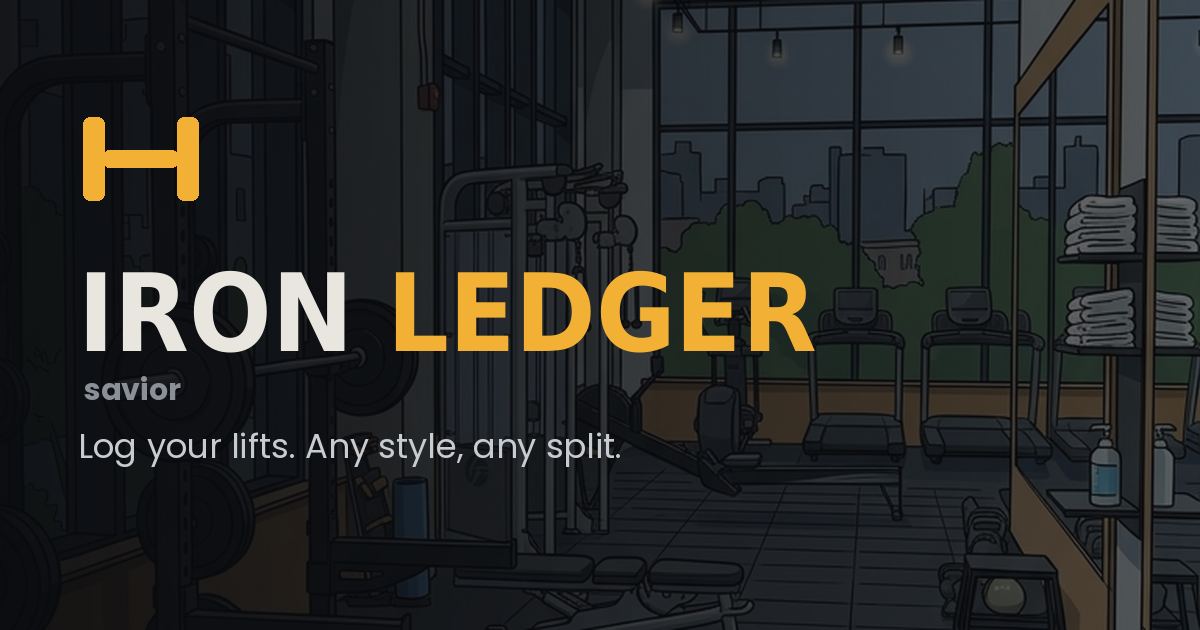
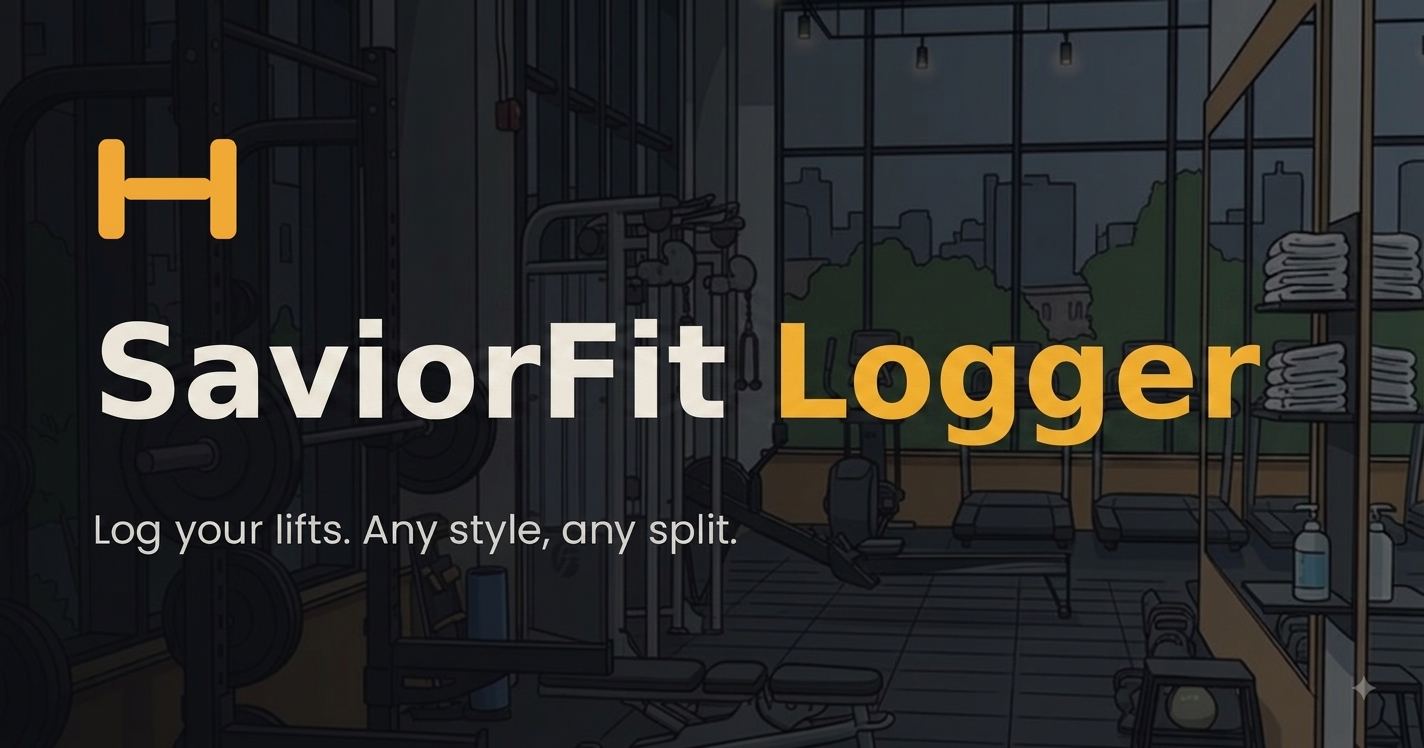
Add files via upload

diff --git a/index.html b/index.html
@@ -4,7 +4,7 @@
 <meta charset="UTF-8">
 <meta name="viewport" content="width=device-width, initial-scale=1.0, viewport-fit=cover">
 <meta name="theme-color" content="#14161a">
-<title>Iron Ledger — Workout Log</title>
+<title>SaviorFit Logger — Workout Log</title>
 <meta name="description" content="Log your lifts, any style, any split. A free workout tracker by Savior.">
 <!--
   UPDATE THE URLS BELOW once this is live on GitHub Pages / Netlify.
@@ -12,26 +12,26 @@
   link previews (WhatsApp, iMessage, Twitter, etc.) fetch og:image
   from the internet, so it only works once it's actually hosted there.
   Upload og-image.png to the same folder as this file, then point
-  og:image at it, e.g. https://yourusername.github.io/iron-ledger/og-image.png
+  og:image at it, e.g. https://yourusername.github.io/saviorfit-logger/og-image.png
 -->
 <meta property="og:type" content="website">
-<meta property="og:url" content="https://xavierchua10-dotcom.github.io/IronLedger/">
-<meta property="og:title" content="Iron Ledger — Workout Log">
+<meta property="og:url" content="https://xavierchua10-dotcom.github.io/SaviorFitLogger/">
+<meta property="og:title" content="SaviorFit Logger — Workout Log">
 <meta property="og:description" content="Log your lifts, any style, any split. A free workout tracker by Savior.">
-<meta property="og:image" content="https://xavierchua10-dotcom.github.io/IronLedger/og-image.png">
+<meta property="og:image" content="https://xavierchua10-dotcom.github.io/SaviorFitLogger/og-image.png">
 <meta property="og:image:width" content="1200">
 <meta property="og:image:height" content="630">
 <meta name="twitter:card" content="summary_large_image">
-<meta name="twitter:title" content="Iron Ledger — Workout Log">
+<meta name="twitter:title" content="SaviorFit Logger — Workout Log">
 <meta name="twitter:description" content="Log your lifts, any style, any split. A free workout tracker by Savior.">
-<meta name="twitter:image" content="https://xavierchua10-dotcom.github.io/IronLedger/og-image.png">
+<meta name="twitter:image" content="https://xavierchua10-dotcom.github.io/SaviorFitLogger/og-image.png">
 <link rel="icon" href="favicon.ico">
 <link rel="apple-touch-icon" href="apple-touch-icon.png">
 <link rel="manifest" href="manifest.json">
 <meta name="mobile-web-app-capable" content="yes">
 <meta name="apple-mobile-web-app-capable" content="yes">
 <meta name="apple-mobile-web-app-status-bar-style" content="black-translucent">
-<meta name="apple-mobile-web-app-title" content="Iron Ledger">
+<meta name="apple-mobile-web-app-title" content="SaviorFit Logger">
 <link rel="preconnect" href="https://fonts.googleapis.com">
 <link rel="preconnect" href="https://fonts.gstatic.com" crossorigin>
 <link href="https://fonts.googleapis.com/css2?family=Oswald:wght@500;600;700&family=Inter:wght@400;500;600;700&family=JetBrains+Mono:wght@400;500;700&display=swap" rel="stylesheet">
@@ -1932,10 +1932,10 @@
 </style>
 </head>
 <body>
-<div id="bootLoading" class="boot-loading"><div class="boot-loading-mark">IRON <span>LEDGER</span></div></div>
+<div id="bootLoading" class="boot-loading"><div class="boot-loading-mark">SAVIORFIT <span>LOGGER</span></div></div>
 <div id="app" class="hidden">
   <header class="topbar">
-    <h1>IRON <span>LEDGER</span> <span class="brand-tag">savior</span></h1>
+    <h1>SAVIORFIT <span>LOGGER</span></h1>
     <div class="topbar-right">
       <div class="account-wrap">
         <button class="pro-star-btn" id="proStarBtn" data-action="open-pricing" aria-label="Upgrade to Pro"><span class="pro-star-glyph">&#9733;</span></button>
@@ -2763,8 +2763,8 @@
     var s = state.sessions.find(function(x){ return x.id === sessionId; });
     if (!s) return;
     document.getElementById('printReceipt').classList.remove('pro');
-    var html = '<div class="pr-brand">IRON <span class="pr-brand-accent">LEDGER</span></div>';
-    html += '<div class="pr-tagline">savior &middot; workout receipt</div>';
+    var html = '<div class="pr-brand">SAVIORFIT <span class="pr-brand-accent">LOGGER</span></div>';
+    html += '<div class="pr-tagline">workout receipt</div>';
     html += '<div class="pr-line"></div>';
     html += '<div class="pr-session-name">'+esc(s.name || 'Untitled session')+'</div>';
     html += '<div class="pr-row"><span>'+fmtDate(s.finishedAt || s.date)+'</span><span>'+tsOrLock(s.finishedAt || s.date)+'</span></div>';
@@ -2781,7 +2781,7 @@
     html += '<div class="pr-row"><span>Sets</span><span>'+sessionSetCount(s)+'</span></div>';
     html += '<div class="pr-row"><span>Total volume</span><span>'+Math.round(toDisplay(sessionVolume(s))).toLocaleString()+' '+unitLabel()+'</span></div>';
     html += '<div class="pr-line"></div>';
-    html += '<div class="pr-footer">Thanks for the work.<br>Logged with Iron Ledger &mdash; Savior</div>';
+    html += '<div class="pr-footer">Thanks for the work.<br>Logged with SaviorFit Logger</div>';
     document.getElementById('printReceipt').innerHTML = html;
     window.print();
   }
@@ -3192,7 +3192,7 @@
 
     if (isDevOverride()){
       panel.innerHTML =
-        '<div class="pro-panel-header"><h3><span class="pro-panel-badge">PRO</span> Iron Ledger Pro</h3>' +
+        '<div class="pro-panel-header"><h3><span class="pro-panel-badge">PRO</span> SaviorFit Logger Pro</h3>' +
           '<button class="pro-panel-close" data-action="close-pricing" aria-label="Close">&#10005;</button>' +
         '</div>' +
         '<div class="paywall-body">' +
@@ -3205,7 +3205,7 @@
 
     if (isProActive()){
       panel.innerHTML =
-        '<div class="pro-panel-header"><h3><span class="pro-panel-badge">PRO</span> Iron Ledger Pro</h3>' +
+        '<div class="pro-panel-header"><h3><span class="pro-panel-badge">PRO</span> SaviorFit Logger Pro</h3>' +
           '<button class="pro-panel-close" data-action="close-pricing" aria-label="Close">&#10005;</button>' +
         '</div>' +
         '<div class="paywall-body">' +
@@ -3305,7 +3305,7 @@
     overlay.classList.remove('hidden');
     if (!isProActive()){
       panel.innerHTML =
-        '<div class="pro-panel-header"><h3><span class="pro-panel-badge">PRO</span> Iron Ledger Pro</h3>' +
+        '<div class="pro-panel-header"><h3><span class="pro-panel-badge">PRO</span> SaviorFit Logger Pro</h3>' +
           '<button class="pro-panel-close" data-action="close-pro-receipt" aria-label="Close">&#10005;</button>' +
         '</div>' +
         '<div class="paywall-body">' +
@@ -3343,12 +3343,12 @@
     var el = document.getElementById('printReceipt');
     el.classList.add('pro');
     var html = '<div class="prc-head">' +
-                  '<div class="prc-brand">IRON <span class="prc-brand-accent">LEDGER</span></div>' +
+                  '<div class="prc-brand">SAVIORFIT <span class="prc-brand-accent">LOGGER</span></div>' +
                   '<div class="prc-badge">PRO</div>' +
                 '</div>' +
                 '<div class="prc-meta"><span>'+esc(s.name || 'Untitled session')+'</span><span>'+fmtDate(s.finishedAt || s.date)+' &middot; '+fmtTime(s.finishedAt || s.date)+'</span></div>';
     html += buildProReceiptHtml(s);
-    html += '<div class="prc-footer">Iron Ledger Pro &mdash; Savior. Timestamps reflect when each set was logged.</div>';
+    html += '<div class="prc-footer">SaviorFit Logger Pro. Timestamps reflect when each set was logged.</div>';
     el.innerHTML = html;
     window.print();
   }
@@ -4245,7 +4245,7 @@
     var mode = ui.authMode || 'login';
     var busy = !!ui.authBusy;
     var html = '<div class="auth-card">';
-    html += '<div class="auth-title"><h1>IRON <span>LEDGER</span></h1><div class="auth-sub">savior</div></div>';
+    html += '<div class="auth-title"><h1>SAVIORFIT <span>LOGGER</span></h1></div>';
     html += '<div class="auth-tabs">' +
               '<button class="'+(mode==='login'?'active':'')+'" data-action="auth-mode" data-mode="login"'+(busy?' disabled':'')+'>Log In</button>' +
               '<button class="'+(mode==='signup'?'active':'')+'" data-action="auth-mode" data-mode="signup"'+(busy?' disabled':'')+'>Sign Up</button>' +
@@ -5189,7 +5189,7 @@
     var d = new Date();
     var stamp = d.getFullYear() + '-' + String(d.getMonth()+1).padStart(2,'0') + '-' + String(d.getDate()).padStart(2,'0');
     a.href = url;
-    a.download = 'iron-ledger-backup-' + stamp + '.json';
+    a.download = 'saviorfit-logger-backup-' + stamp + '.json';
     document.body.appendChild(a);
     a.click();
     document.body.removeChild(a);
@@ -5796,7 +5796,7 @@
         await deferredPrompt.userChoice;
         deferredPrompt = null;
       } else if (isIOS){
-        alert('To install Iron Ledger:\n\n1. Tap the Share icon\n2. Tap "Add to Home Screen"');
+        alert('To install SaviorFit Logger:\n\n1. Tap the Share icon\n2. Tap "Add to Home Screen"');
       }
     });
 
